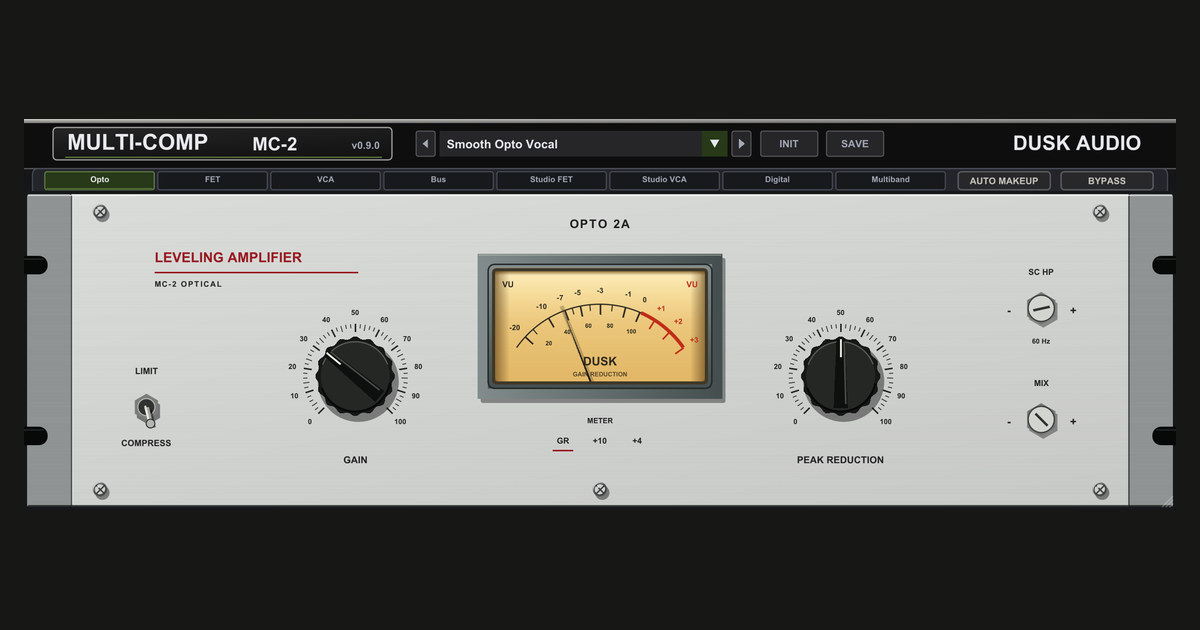
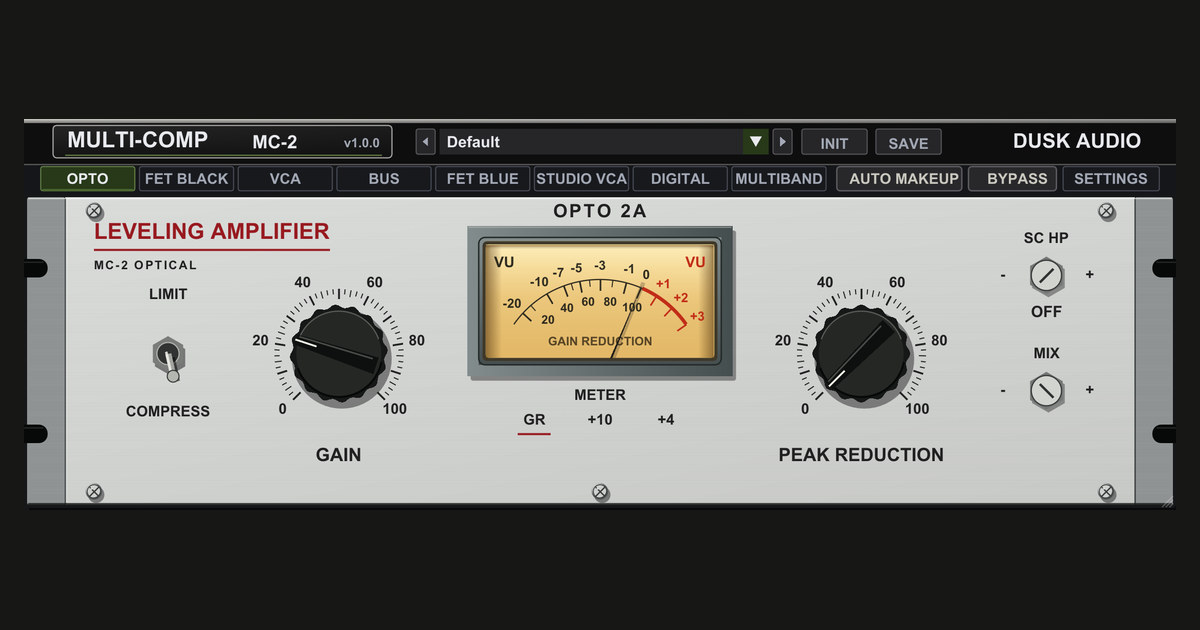
Refresh Multi-Comp 2 development page and screenshots

diff --git a/_plugins/multi-comp-2.md b/_plugins/multi-comp-2.md
@@ -4,24 +4,27 @@ title: Multi-Comp 2
 slug: multi-comp-2
 published: false
 tagline: Multi-Mode Compressor with Hardware-Style Faces
-description: Eight compression modes in one plugin. Opto, FET, and VCA modes sit on hardware-style faceplates and are each measured against a reference unit; Bus, Studio FET, Studio VCA, Digital, and 4-band Multiband cover the rest. Free AU, VST3, CLAP, and LV2 plugin for Linux, Windows, and macOS.
+description: Eight compression modes in one plugin, each with its own face. Opto, FET Black, FET Blue, VCA, Bus, and Studio VCA are matched to measurements of reference units; Digital and 4-band Multiband are our own designs. Free AU, VST3, CLAP, and LV2 plugin for Linux, Windows, and macOS.
 version: "1.0.0"
 screenshot: /assets/images/plugins/multi-comp-2-screenshot.webp
 
 features:
-  - "Opto mode: a leveling amplifier with Gain, Peak Reduction, and Compress / Limit"
-  - "FET mode: a limiting amplifier with Input, Output, Attack, Release, and the 4, 8, 12, 20, and All ratio buttons"
-  - "VCA mode: a compressor/limiter with Threshold, Compression, and Output Gain"
-  - "Opto, FET, and VCA each measured against a reference unit"
-  - "Bus, Studio FET, Studio VCA, Digital, and 4-band Multiband modes"
-  - Needle meters with gain reduction and output scales
-  - Sidechain filter on the Opto, VCA, and Bus faces
-  - Mix control on every mode for parallel compression
-  - Auto Makeup gain
-  - User presets alongside the factory presets
+  - "Eight modes, each with its own face: Opto, FET Black, VCA, Bus, FET Blue, Studio VCA, Digital, and Multiband"
+  - "Six modes matched to measurements of reference units: Opto, FET Black, FET Blue, VCA, Bus, and Studio VCA"
+  - "Two FET voices: FET Black with the 4, 8, 12, 20, and All ratio buttons, and FET Blue with 2, 4, 8, and 20 and their two-button combinations"
+  - "Digital compressor with Knee, Lookahead, and Adaptive Release"
+  - "4-band Multiband with adjustable crossovers and per-band solo and bypass"
+  - "Settings drawer for the external sidechain, sidechain listen and EQ, Oversampling, True Peak, Analog Noise, Stereo Link, Drive, and Lookahead"
+  - "Needle meters with gain reduction and output scales"
+  - "Sidechain filter on the Opto, FET Blue, VCA, Bus, and Digital faces"
+  - "Mix control on every mode for parallel compression"
+  - "Auto Makeup gain"
+  - "Mode and Oversampling changes fade out and back in instead of clicking"
+  - "The same latency in every mode while Lookahead is off"
+  - "13 factory presets plus user presets"
   - "Mono and stereo operation"
-  - Resizable interface
-  - Full automation support
+  - "One 1120 x 380 window for every mode, resizable, with every face legible at that size"
+  - "Full automation support"
 
 formats:
   - "Linux: VST3, LV2, CLAP"
@@ -41,4 +44,107 @@ changelog:
 
 Multi-Comp 2 is the successor to Multi-Comp. It has its own plugin identity, so both can be installed side by side; keep the original for projects that already use it.
 
+## Overview
+
+Multi-Comp 2 puts eight compressors in one plugin. Choose a mode from the row under the title bar and its face appears below it: a hardware-style faceplate for each of the six measured modes, and a rack panel of their own for Digital and Multiband.
+
+The six measured modes are matched to reference units. Each one was measured against its reference on test signals and on music at many settings, comparing the gain reduction the two apply, control by control. Digital and Multiband are our own designs.
+
+## The Modes
+
+| Mode | Character | Controls |
+|------|-----------|----------|
+| **Opto** | Optical leveling amplifier with a smooth, program-dependent response | Gain, Peak Reduction, Compress / Limit, SC HP, Mix |
+| **FET Black** | Fast FET limiting amplifier | Input, Output, Attack, Release, ratio buttons 4, 8, 12, 20, and All, Mix |
+| **FET Blue** | A second FET limiting amplifier, measured from a different reference unit | Input, Output, Attack with an SLO position, Release, ratio buttons 2, 4, 8, and 20 with their two-button combinations, SC Filter, Headroom, Mix |
+| **VCA** | VCA compressor/limiter with Below and Above threshold lamps | Threshold, Compression, Output Gain, PULL/SC sidechain switch, Mix |
+| **Bus** | Stereo bus compressor | Threshold, Ratio (2, 4, 10), Attack, Release (including Auto), Make-Up, SC Filter, Headroom, Mix, Auto Fade |
+| **Studio VCA** | Clean studio VCA compressor | Input, Ratio, Threshold, Attack, Release, Auto Release, Make Up Gain, Dry/Wet |
+| **Digital** | Clean digital compressor | Threshold, Ratio, Knee, Attack, Release, Lookahead, Mix, Output, Adaptive Release, SC HP |
+| **Multiband** | Four bands split by three adjustable crossovers | Threshold, Ratio, Attack, Release, and Make-Up per band, band Bypass and Solo, Output, Mix |
+
+AUTO MAKEUP and BYPASS sit in the mode row beside the eight mode tabs.
+
+## Settings Drawer
+
+SETTINGS, at the right end of the mode row, opens a drawer over the face with the controls that work across modes:
+
+- **Sidechain:** External Key, SC Listen, and a sidechain EQ with a low and a high shelf
+- **Processing:** Oversampling (Off, 2x, 4x), True Peak detection (4x or 8x), and Analog Noise
+- **Stereo:** Link amount and Link Mode (Stereo, Mid-Side, Dual Mono)
+- **Drive:** Soft, Hard, or Clip, with an Amount
+- **Lookahead:** for Digital and Multiband
+- **FET Black:** Threshold, Transient, and Curve
+
+A setting the current mode does not use stays in place, greyed out, so the drawer reads the same in every mode. Choosing a mode closes it.
+
+## Lookahead and Latency
+
+Lookahead belongs to the digital modes. The drawer's Lookahead (up to 10 ms) acts in Digital and Multiband, and Digital has a Lookahead knob of its own on its face. The six measured modes ignore Lookahead, as their reference units have none, so it adds no delay there.
+
+With Lookahead at zero, Multi-Comp 2 reports the same latency in every mode (73 samples at 44.1 and 48 kHz), so switching modes never moves the track in time. With a Lookahead set, switching between Digital or Multiband and another mode changes the latency, and your host updates its delay compensation.
+
+## Switching Modes
+
+Changing the mode, the Oversampling setting, or FET Black's All button while audio plays fades the output out, makes the change in silence, and fades it back in, all within a few milliseconds. A switch does not jump, click, or replay audio from before it.
+
+## Metering
+
+Every face carries its own gain reduction metering. Opto and the two FET faces have VU needles that read gain reduction or output level. The VCA meter reads input, output, or gain reduction; Bus has its compression meter; Studio VCA pairs an input or output meter with a gain reduction meter. Digital shows its gain reduction on a VU or, with a click, as a history graph, and Multiband has a meter for each band.
+
+## One Window for Every Mode
+
+Every mode opens in the same 1120 x 380 window, and the window can be enlarged. Each face is laid out to be read at that size: control legends are at least 16 px and values 17 px.
+
+## Factory Presets
+
+Thirteen factory presets, plus your own presets saved from the preset menu:
+
+**Vocals**
+- Smooth Opto Vocal, Vocal Presence, Modern Pop Control
+
+**Drums**
+- Classic Drum Glue, Room Nuke (FET All), Snare Snap
+
+**Bass**
+- Rock Bass Anchor, Vintage Pinned Bass
+
+**Guitars**
+- Acoustic Strum Tamer, Funk Rhythm Guitar
+
+**Mix Bus**
+- Console-Style Glue, Gentle Master
+
+**Creative**
+- EDM Pump (115-130 BPM)
+
+## Installation
+
+### Linux
+```
+VST3: ~/.vst3/multi-comp-2.vst3
+CLAP: ~/.clap/multi-comp-2.clap
+LV2:  ~/.lv2/multi-comp-2.lv2
+```
+
+### macOS
+```
+AU:   ~/Library/Audio/Plug-Ins/Components/multi-comp-2.component
+VST3: ~/Library/Audio/Plug-Ins/VST3/multi-comp-2.vst3
+CLAP: ~/Library/Audio/Plug-Ins/CLAP/multi-comp-2.clap
+LV2:  ~/Library/Audio/Plug-Ins/LV2/multi-comp-2.lv2
+```
+
+### Windows
+```
+VST3: C:\Program Files\Common Files\VST3\multi-comp-2.vst3
+CLAP: C:\Program Files\Common Files\CLAP\multi-comp-2.clap
+```
+
+## Open Source
+
 Multi-Comp 2 is open source under GPL-3.0-or-later. View the source, report issues, or contribute on [GitHub](https://github.com/dusk-audio/dusk-audio-plugins).
+
+---
+
+*Disclaimer: This is an independent emulation inspired by classic compressor hardware. This project is not affiliated with or endorsed by any hardware or software manufacturer.*
